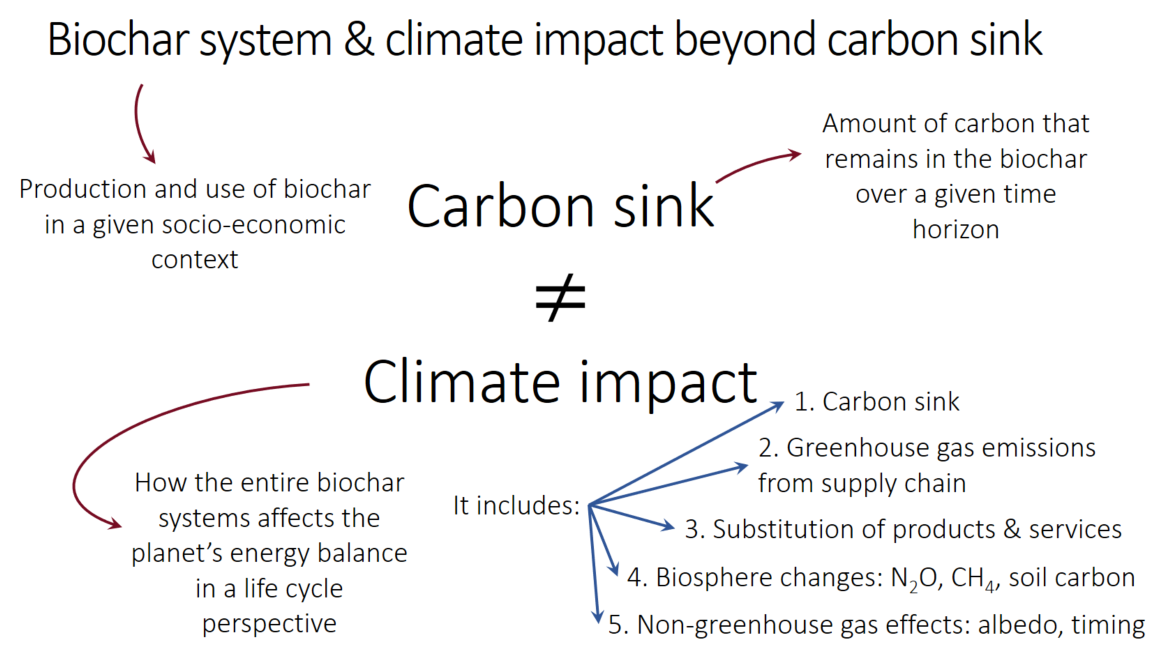
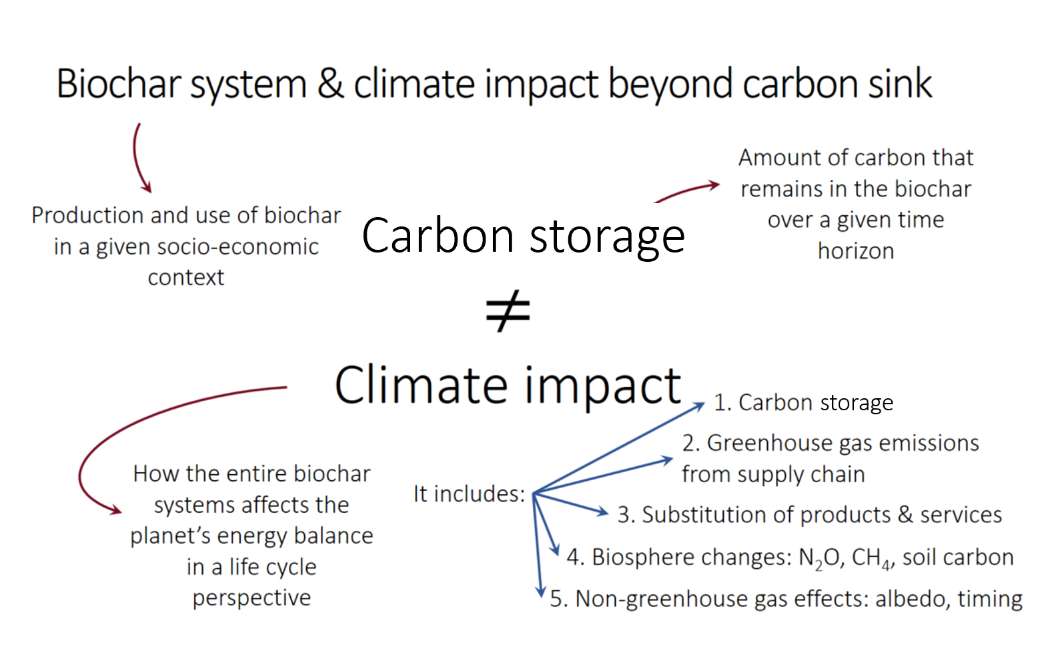
Restore all changes lost after branch deletion

diff --git a/content/en/biochar-climate.md b/content/en/biochar-climate.md
@@ -1,6 +1,6 @@
 ---
 title: "Biochar & Climate change"
-description: "[page under construction]"
+description: 
 subtitle : "Biochar is well known as an option to mitigate climate change. Here, we want to give the big picture & revisit some of the basic science behind it."
 bg_image: "img/lin-field.JPG"
 layout: "faq"
@@ -46,12 +46,12 @@ In short, the longer the better. At minima, to have an effect on the climate sys
 
 #### Global biochar carbon sequestration potential
 
-There are few studies that estimated the potential for biochar production & related carbon sequestration in biochar. The potential could be up to 3 GtC yr<sup>-1</sup> or, equivalently, 10 GtCO<sub>2</sub> yr<sup>-1</sup>
+There are few studies that estimated the potential for biochar production & related carbon sequestration in biochar. The potential could be up to 3 GtC yr<sup>-1</sup> or, equivalently, 10 GtCO<sub>2</sub> yr<sup>-1</sup> [(Cowie et al., 2024)](https://doi.org/10.4324/9781003297673-30).
 
 [to be continued]
 
-<br />
-## B. Biochar carbon sink & climate change impact?
+
+## B. Biochar carbon storage & climate change impact?
 
 Biochar carbon <mark>*sink*</mark>, carbon <mark>*sequestration*</mark>, carbon <mark>*removal*</mark>, biochar <mark>*decomposition*</mark>, biochar <mark>*stability*</mark>, & <mark>*climate impact*</mark> of biochar systems. 
 
@@ -59,15 +59,14 @@ All these terms are related. Some are synonyms. Some have different meanings. Le
 
 First, the largest difference is between the biochar carbon sink & climate change impact of a biochar system. It is illustrated in the Figure 2, below.
 
-{{< figure src="../img/climate_BiocharSinkImpact.png" title="Fig 2. The carbon sink of biochar is only a part of the climate change impact of a biochar system." width="100%">}}<br />
+{{< figure src="../img/climate_BiocharSinkImpact.png" title="Fig 2. The carbon storage in biochar is only a part of the climate change impact of a biochar system." width="100%">}}<br />
 
-[to be continued]
 - Definitions of terms
 - Reminder: what matters is that biochar systems mitigate climate change, from a life cycle perspective
 - Insight from LCA research: biochar C sink term is largest contributor to overall climate impact of the systems. Hence, importance to ground assumption on stability on solid evidence
 
 
-<br />
+
 ## C. Biochar decomposition: how is it measured?
 
 [to be continued]
@@ -76,68 +75,35 @@ First, the largest difference is between the biochar carbon sink & climate chang
 - Biochar in soils: main processes at play
 - Incubation experiments, lab & field
 
-<br />
+
 ## D. Biochar stability estimates: how are they built?
 
 Biochar stability estimates have been derived according to two main approaches:
 - Physical or chemical oxidation & benchmarking against fossil coal
 - Extrapolation of incubation data to long-time horizons
 
-Here, we only cover the second approach as it relies on actual observations and is becoming the dominant approach in the recent research literature.
+Here, we only cover the second approach as it relies on actual observations and is the dominant approach in the research literature.
 
 The process to extrapolate incubation data to longer times is described in Figure 3, alongside with methodological choices that arise along the way.
 
 {{< figure src="../img/climate_BiocharDataAnalysis.png" title="Fig 3. From incubation data to stability estimators" width="100%">}}<br />
 
+See more in Stability project.
 
-[to be continued]
 
-#### Description of the extrapolation process
-- long term extrapolation
-- correlation to properties 
-
-#### Published analyses of biochar incubation data & suggested correlations
-
-{{< tabs name="tab_with_md" >}}
-
-  {{% tab name="Woolf 2021" %}}
-  
-  .
-  {{% /tab %}}
-  
-  {{% tab name="Lehmann 2019" %}}
-  
-  .
-  {{% /tab %}}
-
-  {{% tab name="Budai 2013" %}}
-  
-  .
-  {{% /tab %}}
-
-  {{% tab name="Spokas 2010" %}}
-  
-  .
-  {{% /tab %}}
-
-{{< /tabs >}}
-
-  
-
-<br />
 ## E. Financing carbon removals & policy implications
 
-  Financing action to mitigate climate change has a long history. For several decades, it took the form of climate compensation through the financing of projects that avoided fossil fuel emissions, deforestation, or encouraged replanting of trees. This was not without debate & distrust. Today, the compensation or offsetting market is moving towards new types of projects: carbon removal projects.
+#### Financing carbon removals in a shifting climate market
+Financing climate action has traditionally focused on activities that avoid emissions, like preventing deforestation or displacing fossil fuels, but these strategies have faced questions on credibility. Today, markets, both voluntary and regulated, are moving toward verified carbon removals, including biochar, that stores CO₂ rather than merely avoid it.
 
-  Let's be clear:
-  <ul><li>The role of finance is to catalyse change by channelling resources where needed</li>
-  <li>Climate compensation are a type of financial product, available on voluntary & regulated markets</li>
-  <li>Climate financial products are built on trust in the seller & feelings created for buyers</li>
-  <li>Buying climate compensation products can never be a substitute to reducing one's greenhouse gas emissions</li>
-  </ul>
+#### Carbon removal as a trusted financial instrument
+Carbon finance aims to channel capital toward actions with measurable climate benefits. Whether through avoidance or removal, these financial instruments hinge on trust in the project design, in robust verification, and in transparency. That said, purchasing such instruments should not be seen as a replacement for reducing emissions directly. Biochar-based carbon removal credits are gaining momentum in voluntary markets, reflecting the shift toward durable and verifiable removals in climate finance.
 
+#### Emerging EU framework: CRCF in development
+The EU is developing the Carbon Removal Certification Framework (CRCF), a voluntary, EU-wide certification system that will cover permanent removal methods such as biochar and carbon farming, based on principles like quantification, additionality, durability, and sustainability (read more [here](https://eur-lex.europa.eu/EN/legal-content/summary/establishing-a-union-certification-framework-for-permanent-carbon-removals-carbon-farming-and-carbon-storage-in-products.html?utm_source=chatgpt.com)). Regulatory adoption occurred in late 2024, and the Commission is preparing delegated acts to define methodologies. Certification and the rollout of a centralized registry are expected to begin around 2026–2027, with full registry integration by 2028.
 
-When it comes to biochar, in the early 2020s, "biochar C removal certificates" have been defined & are being sold on a non-regulated voluntary market by a handful of organisations.
+#### Policy implications
+For biochar projects, aligning with the forthcoming CRCF will enhance credibility and lay the groundwork for future uptake in compliance and voluntary initiatives. As policy evolves from offsetting toward verified removals, transparent durability modelling, and alignment with external frameworks, will be key for scaling finance and market trust.
 
 #### How do "biochar C removal certificates" work?
 

diff --git a/content/en/resources/section-1-literature.md b/content/en/resources/section-1-literature.md
@@ -115,14 +115,36 @@ This list was last updated on {{< lastmod >}}.
 
 Below, we list publications from our research group at KTH and SLU, and other collaborations (click to expand). 
 
-{{% expandcss idLabel="ourpublications" title=" **Life cycle assessment, spatial analyses and more** " collpased='True' %}}
+{{% expandcss idLabel="ourpublications" title=" **Biochar persistence** " collpased='True' %}}
+- Azzi, E. S., Li, H., Cederlund, H., Karltun, E., & Sundberg, C. (2024). Modelling biochar long-term carbon storage in soil with harmonized analysis of decomposition data. Geoderma, 441(0016-7061), 116761–116761. https://doi.org/10.1016/j.geoderma.2023.116761
+
+- Lehmann, J., Abiven, S., Azzi, E., Fang, Y., Singh, B. P., Sohi, S., Sundberg, C., Woolf, D., & Zimmerman, A. R. (2024). Persistence of biochar. Biochar for Environmental Management, 277–311. https://doi.org/10.4324/9781003297673-11
+
+- Li, H., Azzi, E. S., Sundberg, C., Karltun, E., & Cederlund, H. (2024). Can inert pool models improve predictions of biochar long-term persistence in soils? Geoderma, 452(0016-7061), 117093. https://doi.org/10.1016/j.geoderma.2024.117093
+
+- Sundberg, C., & Azzi, E. (2024). Biochar sustainability. Routledge EBooks, 785–804. https://doi.org/10.4324/9781003297673-31
+
+- Li, H., Azzi, E. S., Sundberg, C., Karltun, E., and Cederlund, H.: Assessing inert pool models for estimating long-term biochar stability in soil, (2024) EGU General Assembly 2024, Vienna, Austria, 14–19 Apr, EGU24-9202, https://doi.org/10.5194/egusphere-egu24-9202.
+
+- Azzi, E., & Sundberg, C. (2023). Revisiting biochar decomposition data and long-term stability estimates: a transparent and reproducible analysis. EGU General Assembly 2023. https://doi.org/10.5194/egusphere-egu23-5625
+
 - Zakrisson, L., Azzi, E. S., & Sundberg, C. (2023). Climate impact of bioenergy with or without carbon dioxide removal: influence of functional unit and parameter variability. The International Journal of Life Cycle Assessment. https://doi.org/10.1007/s11367-023-02144-2
 
 - Karan, S. K., Osslund, F., Azzi, E. S., Karltun, E., & Sundberg, C. (2023). A spatial framework for prioritizing biochar application to arable land: A case study for Sweden. Resources, Conservation and Recycling, 189, 106769. https://doi.org/10.1016/j.resconrec.2022.106769
 
+- Karan, S. K., Woolf, D., Azzi, E., Sundberg, C., & Wood, S. A. (2023). Potential for biochar carbon sequestration from crop residues: A global spatially explicit assessment. Global Change Biology. Bioenergy/GCB Bioenergy, 15(12), 1424–1436. https://doi.org/10.1111/gcbb.13102
+
+- Azzi, E. S., Sundberg, C., Söderqvist, H., Källgren, T., Cederlund, H., & Li, H. (2023). Guidelines for estimation of biochar durability : Background report. Rapport (Institutionen För Energi Och Teknik, SLU). https://doi.org/10.54612/a.lkbuavb9qc
+
+- Azzi, E. and Sundberg, C.: Revisiting biochar decomposition data and long-term stability estimates: a transparent and reproducible analysis, (2023) EGU General Assembly 2023, Vienna, Austria, 24–28 Apr 2023, EGU23-5625, https://doi.org/10.5194/egusphere-egu23-5625.
+
+- Azzi, E., Jungefeldt, L., Karan, S., & Sundberg, C. (2022). Biochar in Swedish agriculture – straw pyrolysis as a first step towards net-zero. Mistra Food Futures Report, 4. https://res.slu.se/id/publ/131841
+
 - Kätterer, T., Roobroeck, D., Kimutai, G. et al. Maize grain yield responses to realistic biochar application rates on smallholder farms in Kenya. Agron. Sustain. Dev. 42, 63 (2022). https://doi.org/10.1007/s13593-022-00793-5
 
 - Azzi, E. S., Karltun, E., & Sundberg, C. (2022). Life cycle assessment of urban uses of biochar and case study in Uppsala, Sweden. Biochar, 4(1), 18. https://doi.org/10.1007/s42773-022-00144-3
+
+- Papageorgiou, A., Sinha, R., Sebastian Azzi, E., Sundberg, C., & Enell, A. (2022). The Role of Biochar Systems in the Circular Economy: Biomass Waste Valorization and Soil Remediation. IntechOpen. https://doi.org/10.5772/intechopen.104389
 
 - Papageorgiou, A., Azzi, E. S., Enell, A., & Sundberg, C. (2021). Biochar produced from wood waste for soil remediation in Sweden: carbon sequestration and other environmental impacts. Science of The Total Environment, 145953. https://doi.org/10.1016/j.scitotenv.2021.145953
 
@@ -132,7 +154,19 @@ Below, we list publications from our research group at KTH and SLU, and other co
 
 - Azzi, E. S., Karltun, E., & Sundberg, C. (2021). Small-scale biochar production on Swedish farms: A model for estimating potential, variability, and environmental performance. Journal of Cleaner Production, 280, 124873. https://doi.org/10.1016/j.jclepro.2020.124873
 
+- Sundberg, C., Karltun, E., Gitau, J. K. et al. (2020). Biochar from cookstoves reduces greenhouse gas emissions from smallholder farms in Africa. Mitig Adapt Strateg Glob Change 25, 953–967. https://doi.org/10.1007/s11027-020-09920-7
+
+- Gitau, J.K., Njenga, M., Sundberg, C., Mendum, R., 2020. Biochar producing gasifier cooking system for enhanced fuelwood efficiency, women’s wellbeing and sustainable agroecosystems in Kenya. Global Bioenergy Partnership Report, 66-71. http://www.globalbioenergy.org/fileadmin/user_upload/gbep/docs/AG4/AG4_Collection_of_examples_links_sust._wood_energy_and_FLR_June2020.pdf
+
 - Azzi, E. S., Karltun, E., & Sundberg, C. (2019). Prospective life cycle assessment of large-scale biochar production and use for negative emissions in Stockholm. Environmental Science & Technology, 53(14), 8466–8476. https://doi.org/10.1021/acs.est.9b01615
+
+- Gitau, J. K.,Mutune, J., Sundberg, Mendum, R., & Njenga, M., (2019). Factors influencing the adoption of biochar-producing gasifier cookstoves by households in rural Kenya. Energy for Sustainable Development, 52, 63-71, 0973-0826, https://doi.org/10.1016/j.esd.2019.07.006.
+
+- Gitau, J. K., Sundberg, C., Mendum, R., Mutune, J., & Njenga, M. (2019). Use of Biochar-Producing Gasifier Cookstove Improves Energy Use Efficiency and Indoor Air Quality in Rural Households. Energies, 12(22), 4285. https://doi.org/10.3390/en12224285
+
+- Gitau, J. K., Njenga, M., Mendum, R., Mutune, J., Mahmoud, Y., & Sundberg, C. (2019). Cleaner cooking while producing biochar: factors affecting adoption of gasifier cookstoves in rural areas. https://lup.lub.lu.se/record/dd34afc6-43d3-429a-8847-d42d57a6ce0c
+
+- Mahmoud, Y., Gitau, J. K., Karltun, E., Kätterer, T., Kimutai, G., Njenga, M., Nyberg, G., Roing, K., Dries Roobroek, & Sundberg, C. (2019). Biochar production and application in small-scale farming in Kenya: Yield increases and local perceptions. https://lup.lub.lu.se/record/ad144337-b4f6-4cb4-bd94-10a59208162b
 
 {{% /expandcss %}}
 

diff --git a/content/en/case-studies/7-kenya-cookstove.md b/content/en/case-studies/7-kenya-cookstove.md
@@ -22,7 +22,7 @@ information:
   - info : "In this research project, the production and use of biochar in 150 smallholder farming households in three different regions in Kenya was investigated. Biochar-producing cookstoves were distributed and fuel use efficiency, emissions and biochar production were quantified. Effects on crop yields after application of biochar to soil was studied."
   - info : "Biochar produced in cookstoves can contribute to negative carbon emissions through sequestration of biomass carbon, while also providing clean renewable energy and increasing yields in tropical agriculture."
   - info : "The project is a transdisciplinary collaboration between researchers in Kenya (IITA, ICRAF and CIFOR) and Sweden (KTH, SLU and Lund University)."
-  - info : "The research is funded by the Swedish Research Council, grant No. 2015 03180, and the Swedish Research Council for Environment, Agricultural Sciences and Spatial Planning, grants No. 924-2015-1112 and 942-2015-1648."
+
 ---
 
 ## **Resources**
@@ -30,10 +30,12 @@ information:
   <div class="col-md-4">
 
   ### Selected references
+  
+Gitau, J. K., Sundberg, C., Mendum, R., & Njenga, M. (2025). Comparative Assessment of Gasifier Cookstove Performance on Smallholder Farms in Three Regions in Kenya. Sustainability, 17(13), 5872. https://doi.org/10.3390/su17135872
 
-Gitau, K. J.; Sundberg, C.; Mendum, R.; Mutune, J.; Njenga, M. Use of Biochar-Producing Gasifier Cookstove Improves Energy Use Efficiency and Indoor Air Quality in Rural Households. Energies. 2019 https://doi.org/10.3390/en12224285
+Kätterer, T., Roobroeck, D., Kimutai, G. et al. Maize grain yield responses to realistic biochar application rates on smallholder farms in Kenya. Agron. Sustain. Dev. 42, 63 (2022). https://doi.org/10.1007/s13593-022-00793-5
 
-Gitau, K. J.; Mutune, J.; Sundberg, C.; Mendum, R.; Njenga, M. Factors Influencing the Adoption of Biochar-Producing Gasifier Cookstoves by Households in Rural Kenya. Energy Sustain. Dev. 2019, 52, 63–71 https://doi.org/10.1016/J.ESD.2019.07.006
+Sundberg, C.; Karltun, E.; Gitau, J.K.; Kätterer, T.; Kimutai, G.M.; Mahmoud, Y.; Njenga, M.; Nyberg, G.; Roing de Nowina, K.; Roobroeck, D.; Sieber, P. Biochar from cookstoves reduces greenhouse gas emissions from smallholder farms in Africa. Mitigation and Adaptation Strategies for Global Change. 2020 https://doi.org/10.1007/s11027-020-09920-7
 
 
   Complete list of references further down.
@@ -87,8 +89,11 @@ Gitau, K. J.; Mutune, J.; Sundberg, C.; Mendum, R.; Njenga, M. Factors Influenci
 
 ### Funding
 
-The research (2016 to 2020) was funded by Vetenskapsrådet, with grant number 2015 03180, as well as Formas, with grant numbers 924-2015-1112 and 942-2015-1648.
+The research (2016 to 2020) was funded by Swedish Research Council, with grant number 2015 03180, as well as Swedish Research Council for Environment, Agricultural Sciences and Spatial Planning, with grant numbers 924-2015-1112 and 942-2015-1648.
 
+The research is funded by the Swedish Research Council, grant No. 2015 03180, and the Swedish Research Council for Environment, Agricultural Sciences and Spatial Planning, grants No. 924-2015-1112 and 942-2015-1648.
+
+Research on this topic has continued in the BICEPS project in 2022-2025, FOSC-2015, funded by ERA-net Cofund on Food Systems and Climate.
 
 ### Project summary 
 
@@ -107,11 +112,13 @@ The farmers perceptions of the technology and the reasons for changes in practic
 ### List of references
 
 #### Peer-reviewed publications
+Gitau, J. K., Sundberg, C., Mendum, R., & Njenga, M. (2025). Comparative Assessment of Gasifier Cookstove Performance on Smallholder Farms in Three Regions in Kenya. Sustainability, 17(13), 5872. https://doi.org/10.3390/su17135872
+
+Lagerhammar, A., Sandgren, N., & Sundberg, C. (2024). Long-term viability of biochar-producing gasifier stoves for energy and agricultural solutions in rural Kenya. Energy for Sustainable Development, 81(0973-0826), 101490. https://doi.org/10.1016/j.esd.2024.101490
+
 Kätterer, T., Roobroeck, D., Kimutai, G., Karltun E., Nyberg, G., Sundberg C., Roing de Nowina K. 2022. Maize grain yield responses to realistic biochar application rates on smallholder farms in Kenya. Agron. Sustain. Dev. 42, 63. https://doi.org/10.1007/s13593-022-00793-5
 
-Mahmoud Y, Njenga M, Sundberg C, Roing de Nowina K, 2021. Soils, sinks, and smallholder farmers: Examining the benefits of biochar energy transitions in Kenya, Energy Research & Social Science, 75, 102033, https://doi.org/10.1016/j.erss.2021.102033.
-
-Sundberg, C.; Karltun, E.; Gitau, J.K.; Kätterer, T.; Kimutai, G.M.; Mahmoud, Y.; Njenga, M.; Nyberg, G.; Roing de Nowina, K.; Roobroeck, D.; Sieber, P. Biochar from cookstoves reduces greenhouse gas emissions from smallholder farms in Africa. Mitigation and Adaptation Strategies for Global Change. 2020 https://doi.org/10.1007/s11027-020-09920-7 
+Mahmoud Y, Njenga M, Sundberg C, Roing de Nowina K, 2021. Soils, sinks, and smallholder farmers: Examining the benefits of biochar energy transitions in Kenya, Energy Research & Social Science, 75, 102033, https://doi.org/10.1016/j.erss.2021.102033. 
 
 Gitau, K. J.; Sundberg, C.; Mendum, R.; Mutune, J.; Njenga, M. Use of Biochar-Producing Gasifier Cookstove Improves Energy Use Efficiency and Indoor Air Quality in Rural Households. Energies. 2019 https://doi.org/10.3390/en12224285
 
@@ -130,6 +137,8 @@ Njenga M,  Iiyama M, Jamnadass R, Helander H, Larsson L, de Leeuw J, Neufeldt H,
 James K. Gitau,  Ruth Mendum and Mary Njenga. 2018.  Gender and Improvement of Cooking Systems with Biochar-producing Gasifier Stoves. In: Njenga, M.; Mendum, R. (Eds.). 2018. Recovering bioenergy in Sub-Saharan Africa: gender dimensions, lessons and challenges. Colombo, Sri Lanka: International Water Management Institute (IWMI). CGIAR Research Program on Water, Land and Ecosystems (WLE). (Resource Recovery and Reuse: Special Issue). https://doi.org/10.5337/2018.226
 
 #### MSc & BSc theses
+
+Lagerhammar, A., Sandgren, N., & Sundberg, C., 2024, Long-term viability of biochar-producing gasifier stoves for energy and agricultural solutions in rural Kenya, https://urn.kb.se/resolve?urn=urn%3Anbn%3Ase%3Akth%3Adiva-350861
 
 Ranung Siri and Ruud Jessica. 2019. Use of Biochar Producing Cookstoves in Rural Kenya: Energy efficiency, air pollution concentrations and biochar production potential. SEED, KTH https://urn.kb.se/resolve?urn=urn:nbn:se:kth:diva-257882
 

diff --git a/content/en/stability/_index.md b/content/en/stability/_index.md
@@ -1,6 +1,6 @@
 ---
 title: "Research Project / Biochar Stability"
-description: "<p>Biochar can contribute to negative greenhouse gas emissions in the form of long-term carbon storage. It is important for the development of the biochar market to strengthen the knowledge around biochar stability in soils over long times and to develop ways of accounting for biochar stability. </p>
+description: "<p>Biochar can contribute to negative greenhouse gas emissions in the form of long-term carbon storage. It is important for the development of the biochar market and biochar policy to strengthen the knowledge around biochar stability in soils over long times and to develop ways of accounting for biochar stability. </p>
 
 <p>This 4-year research project, named <i>Biochar Stability: supporting transparent & reliable carbon removal</i>, is funded by the Swedish Energy Agency. It started in March 2022 and is finishing in December 2025.<p>
 "
@@ -31,7 +31,7 @@ _This project aimed at consolidating the knowledge around biochar carbon storage
 * New models for calculation of biochar stability based on biochar properties and environmental conditions
 * Practical guidelines on how to use the stability models developed
 
-## Research outputs (as of 2024-12-06)
+## Research outputs (as of 2025-06-30)
 
 * _Scientific article_. December 2024. [Can inert pool models improve predictions of biochar long-term persistence in soils?](https://doi.org/10.1016/j.geoderma.2024.117093) Geoderma, 452, 117093. https://doi.org/10.1016/j.geoderma.2024.117093
 
@@ -43,13 +43,14 @@ _This project aimed at consolidating the knowledge around biochar carbon storage
 
 * _Public statement_. June 2023. At the Biochar Summit in Helsinborg, we published a short non-technical statement synthesizing current knowledge on durability, resulting from 2 months of discussions between researchers in the field. Access it here: [biochar.systems/durability-statement]({{< ref "durability-statement/_index.md" >}})
 
-* _Conferences & Seminars_. Project team has contributed to a series a scientific conferences, seminars and workshops on the topic of biochar persistence, such as: EU CRCF Workshops & Meetings 2024, Biochar Summit 2023, EGU 2023, EGU 2022, Negative Emission Conference 2022.
+* _Conferences & Seminars_. Project team has contributed to a series a scientific conferences, seminars and workshops on the topic of biochar persistence, such as: EU CRCF Workshops & Meetings 2024, Biochar Summit 2023/2025, EGU 2023, EGU 2022, Negative Emission Conference 2022, 2nd Swedish Conference on Sewage Sludge biochar 2024.
 
 
 ### Activities on-going and planned
 Several activities on-going and new ones are planned in 2025:
 * Laboratory incubations with non-labelled Swedish biochars started in February 2022 have been concluded. Analysis of data is on-going.
 * Laboratory incubations with novel labelled biochar started in September 2023 is on-going. Characterisation and other analyses are on-going.
+* Field trials have been established at Ultuna, Uppsala in 2023. Data collection is ongoing.
 * Update of recommendations and review of new research findings is planned for 2025.
 
 <br />
@@ -67,7 +68,7 @@ The project has 5 work packages (WP):
 * WP4: Field trials
 * WP5: Data analysis
 
-The project started in january 2022, and will continue until year 2025:
+The project started in january 2022, and will end in year 2025:
 * Year 2022: survey & roundtables with stakeholders (WP1) / biochar collection & characterisation (WP2) / experiment design (WP3-4) / litterature data collection, modelling toochain, and first re-analysis (WP5)
 * Year 2023: initial guidelines (WP1-5) / start of incubation (WP3) / start of field trials (WP4) / uncertainty modelling (WP5) / publication of dataset and modelling article (WP5)
 * Year 2024: continued laboratory and field work (WP3-4) / modelling of power and inert pool models (WP5)
@@ -108,4 +109,3 @@ For general inquiries: kolinlagringattraknamed@2050.se
 
 
 </div>
-

diff --git a/content/en/stability/app.md b/content/en/stability/app.md
@@ -5,7 +5,7 @@ description: "
 <b>Part 1 / 3   -   Exploring the data</b>
 <p/>
 <p>
-This first dashboard allows to explore the biochar incubation data and the associated metadata, which were collected from the litterature and compiled in a single consistent format. The result of many hours of work.
+This first dashboard allows to explore the biochar incubation data and the associated metadata, which were collected from the litterature and compiled in a single consistent format. 
 </p>
 
 "
@@ -68,13 +68,13 @@ The two graphs below present the actual biochar incubation data, for all observa
 ## **Download all the data**
 
 All the data shown above (and the code to deal with it) is available for download in various format:
-* Get it from *GitHub* (data + code)
-* Get it in *.xlsx* format (data only)
+* Get it from *GitHub* [(data + code)](https://github.com/SLU-biochar/biocharStability)
+* Get it in *.xlsx* format [(data only)](https://github.com/SLU-biochar/biocharStability/blob/main/biocharStability/database/biochar_incubation_database_2022-12_SI4Manuscript.xlsx)
 * Get it in *.json* format (data only)
 
 ## **Scroll down for more**
 
-Below, more interactive figures and text analyses are provided. They reproduce the results from our pre-print article published here *insert link*.
+Below, more interactive figures and text analyses are provided. They reproduce the results from our pre-print article published [here](https://doi.org/10.1016/j.geoderma.2023.116761).
 
   </div>
 </div>
@@ -140,13 +140,14 @@ A key difference between the biochar from different feedstocks is the ash conten
 
 <div class="row">
 <div class="col-md-7">
-<div id="component_3" style="max-height:90vh; margin:0 5% 1% 5%;" >
+<div id="component_3" style="margin-bottom:3rem;" >
     <div class="bk-root" id="f982bdaf-f103-4140-baeb-1625b889cf0a" data-root-id="2884"></div>    <br />
 </div>
 </div>
 
 <div class="col-md-3">
 <div id="component_text_3">
+
 
 ### **Most biochars were from slow pyrolysis**
 

diff --git a/content/en/resources/section-4-student-theses.md b/content/en/resources/section-4-student-theses.md
@@ -14,6 +14,7 @@ styling:
 Master and bachelor students write their theses with us on biochar. Here is a selection of recent ones (titles are linked to the publications):
 
 MSc:
+* Simon Martelius, 2022, [Comparative techno-economic analysis of BECCS and biochar in Sweden](https://slu.primo.exlibrisgroup.com/permalink/46SLUB_INST/1sl36d2/alma9921014794605121)
 * Lisa Zakrisson, 2021, [Comparative life cycle assessment of bioenergy systems with and without carbon dioxide removal](http://urn.kb.se/resolve?urn=urn:nbn:se:kth:diva-296955)
 * Charlotte Malmén, 2020, [Pyrolysis as a business for heat-requiring industries: A case study of biochar production in connection to an asphalt plant](http://urn.kb.se/resolve?urn=urn:nbn:se:kth:diva-283606)
 * Tara Mirovic, 2020, [Biochar production from wood waste for GHG reduction: A case-study from the construction industry](http://urn.kb.se/resolve?urn=urn:nbn:se:kth:diva-283612)
@@ -25,6 +26,7 @@ MSc:
 
 
 BSc:
+* Lagerhammar, A., Sandgren, N., & Sundberg, C., 2024, [Long-term viability of biochar-producing gasifier stoves for energy and agricultural solutions in rural Kenya](https://doi.org/10.1016/j.esd.2024.101490)
 * John Henry Nylén & Simon Román, 2021, [Production of biochar from urban garden waste : A comparative life cycle assessment for Stockholmshem AB](http://urn.kb.se/resolve?urn=urn:nbn:se:kth:diva-298187)
 * Jenny Eliasson & Viktor Carlsson, 2020, [Agricultural waste and wood waste for pyrolysis and biochar: An assessment for Rwanda](http://urn.kb.se/resolve?urn=urn:nbn:se:kth:diva-283611)
 * Jessica Ruud & Siri Ranung, 2019, [Use of Biochar Producing Cookstoves in Rural Kenya: Energy efficiency, air pollution concentrations and biochar production potential](http://urn.kb.se/resolve?urn=urn:nbn:se:kth:diva-257882)

diff --git a/content/en/resources/section-2-webinars.md b/content/en/resources/section-2-webinars.md
@@ -11,6 +11,7 @@ styling:
 <div class="col-md-12">
 
 ### **Webinars**
+* 22-03-2024, Nordic Biochar Network, [How long will biochar stay in soil-and how do we know that?](https://www.youtube.com/watch?v=0QQpgjuQaDY)
 
 * 2022-01-26, Biochar Synthesis Day, [Practical research insights](https://www.youtube.com/watch?v=xymUjLXP3ic)
 
@@ -32,6 +33,7 @@ styling:
 </div>
 
 <div class="row">  
+<div class="col-sm-4" style="margin-bottom:0.5em;"> {{< youtube_test id="0QQpgjuQaDY" title="How long will biochar stay in soil-and how do we know that?" autoplay="false" start="0" >}} </div>
 <div class="col-sm-4" style="margin-bottom:0.5em;"> {{< youtube_test id="xymUjLXP3ic" title="Biochar systems across scales in Sweden - Practical research insights" autoplay="false" start="0" >}} </div>
 <div class="col-sm-4" style="margin-bottom:0.5em;"> {{< youtube_test id="C-KLZJDKefQ" title="Compilation of biochar projects in Sweden up to 2021" autoplay="false" start="0" >}} </div>
 <div class="col-sm-4" style="margin-bottom:0.5em;"> {{< youtube_test id="ymz-kaDvzdc" title="Biochar systems across scales in Sweden" autoplay="false" start="0" >}} </div>

diff --git a/content/en/resources/section-9-externalLinks.md b/content/en/resources/section-9-externalLinks.md
@@ -19,6 +19,6 @@ styling:
 
 * [International Biochar Initiative](https://biochar-international.org/)
 
-* [European biochar Industry](https://www.biochar-industry.com/)
+* [Biochar Europe](https://www.biochar-industry.com/)
   
 </div>
